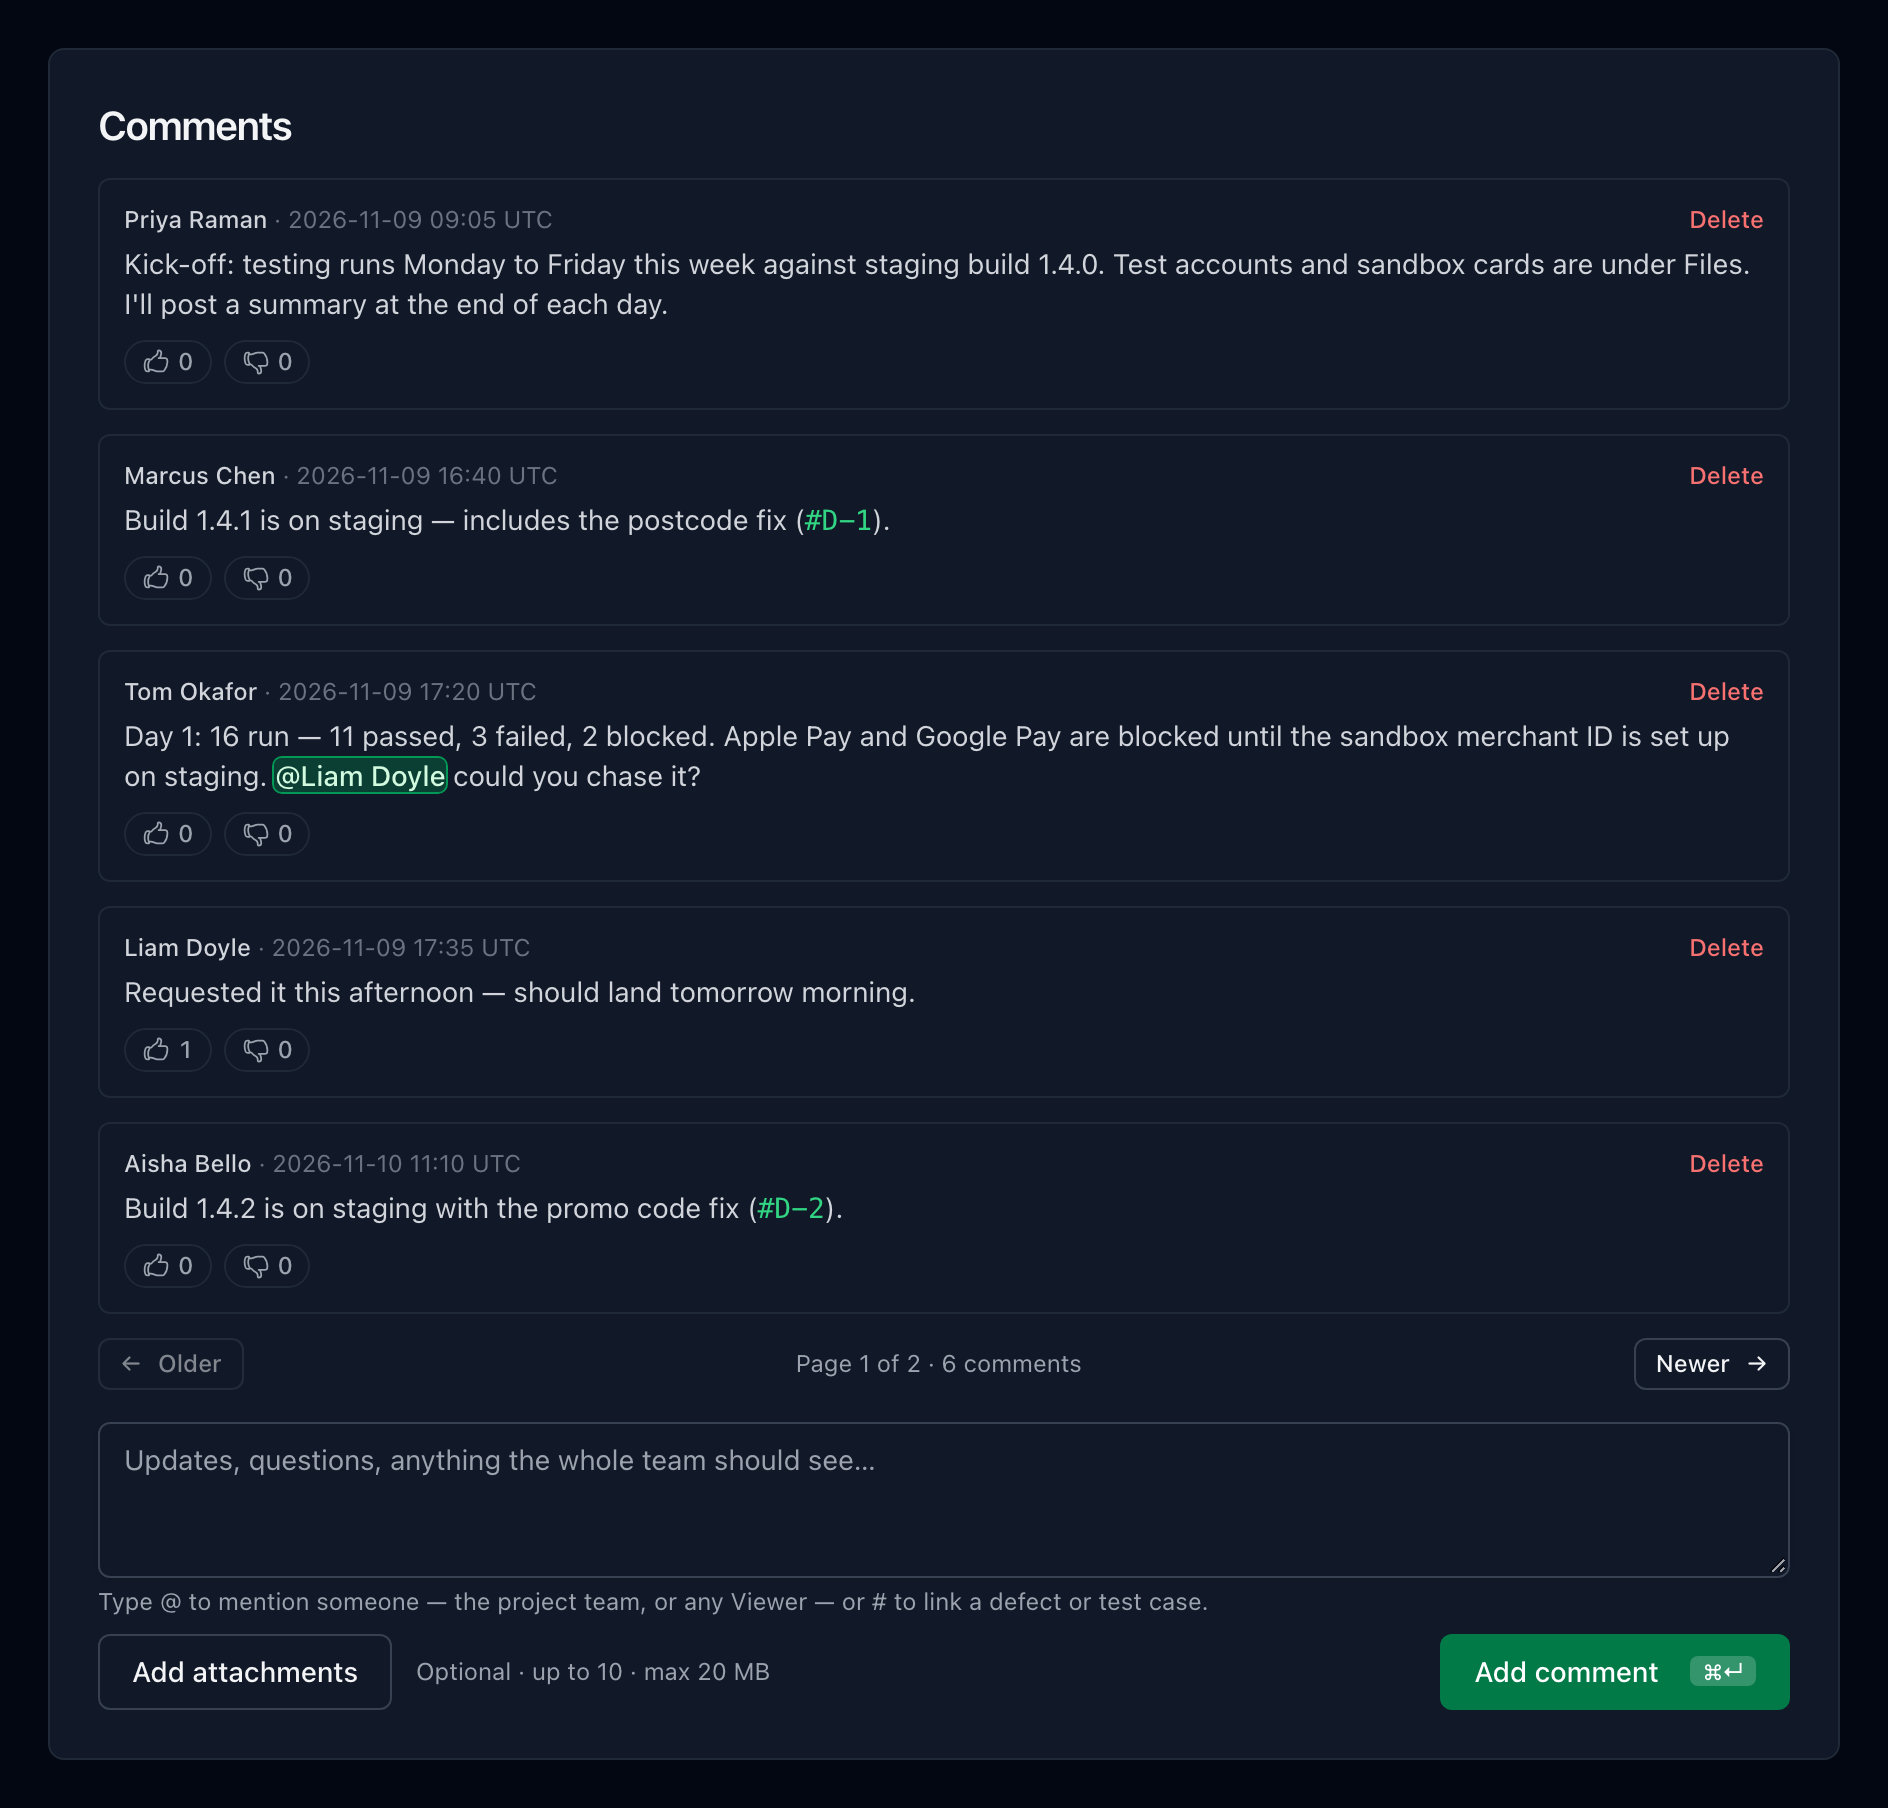
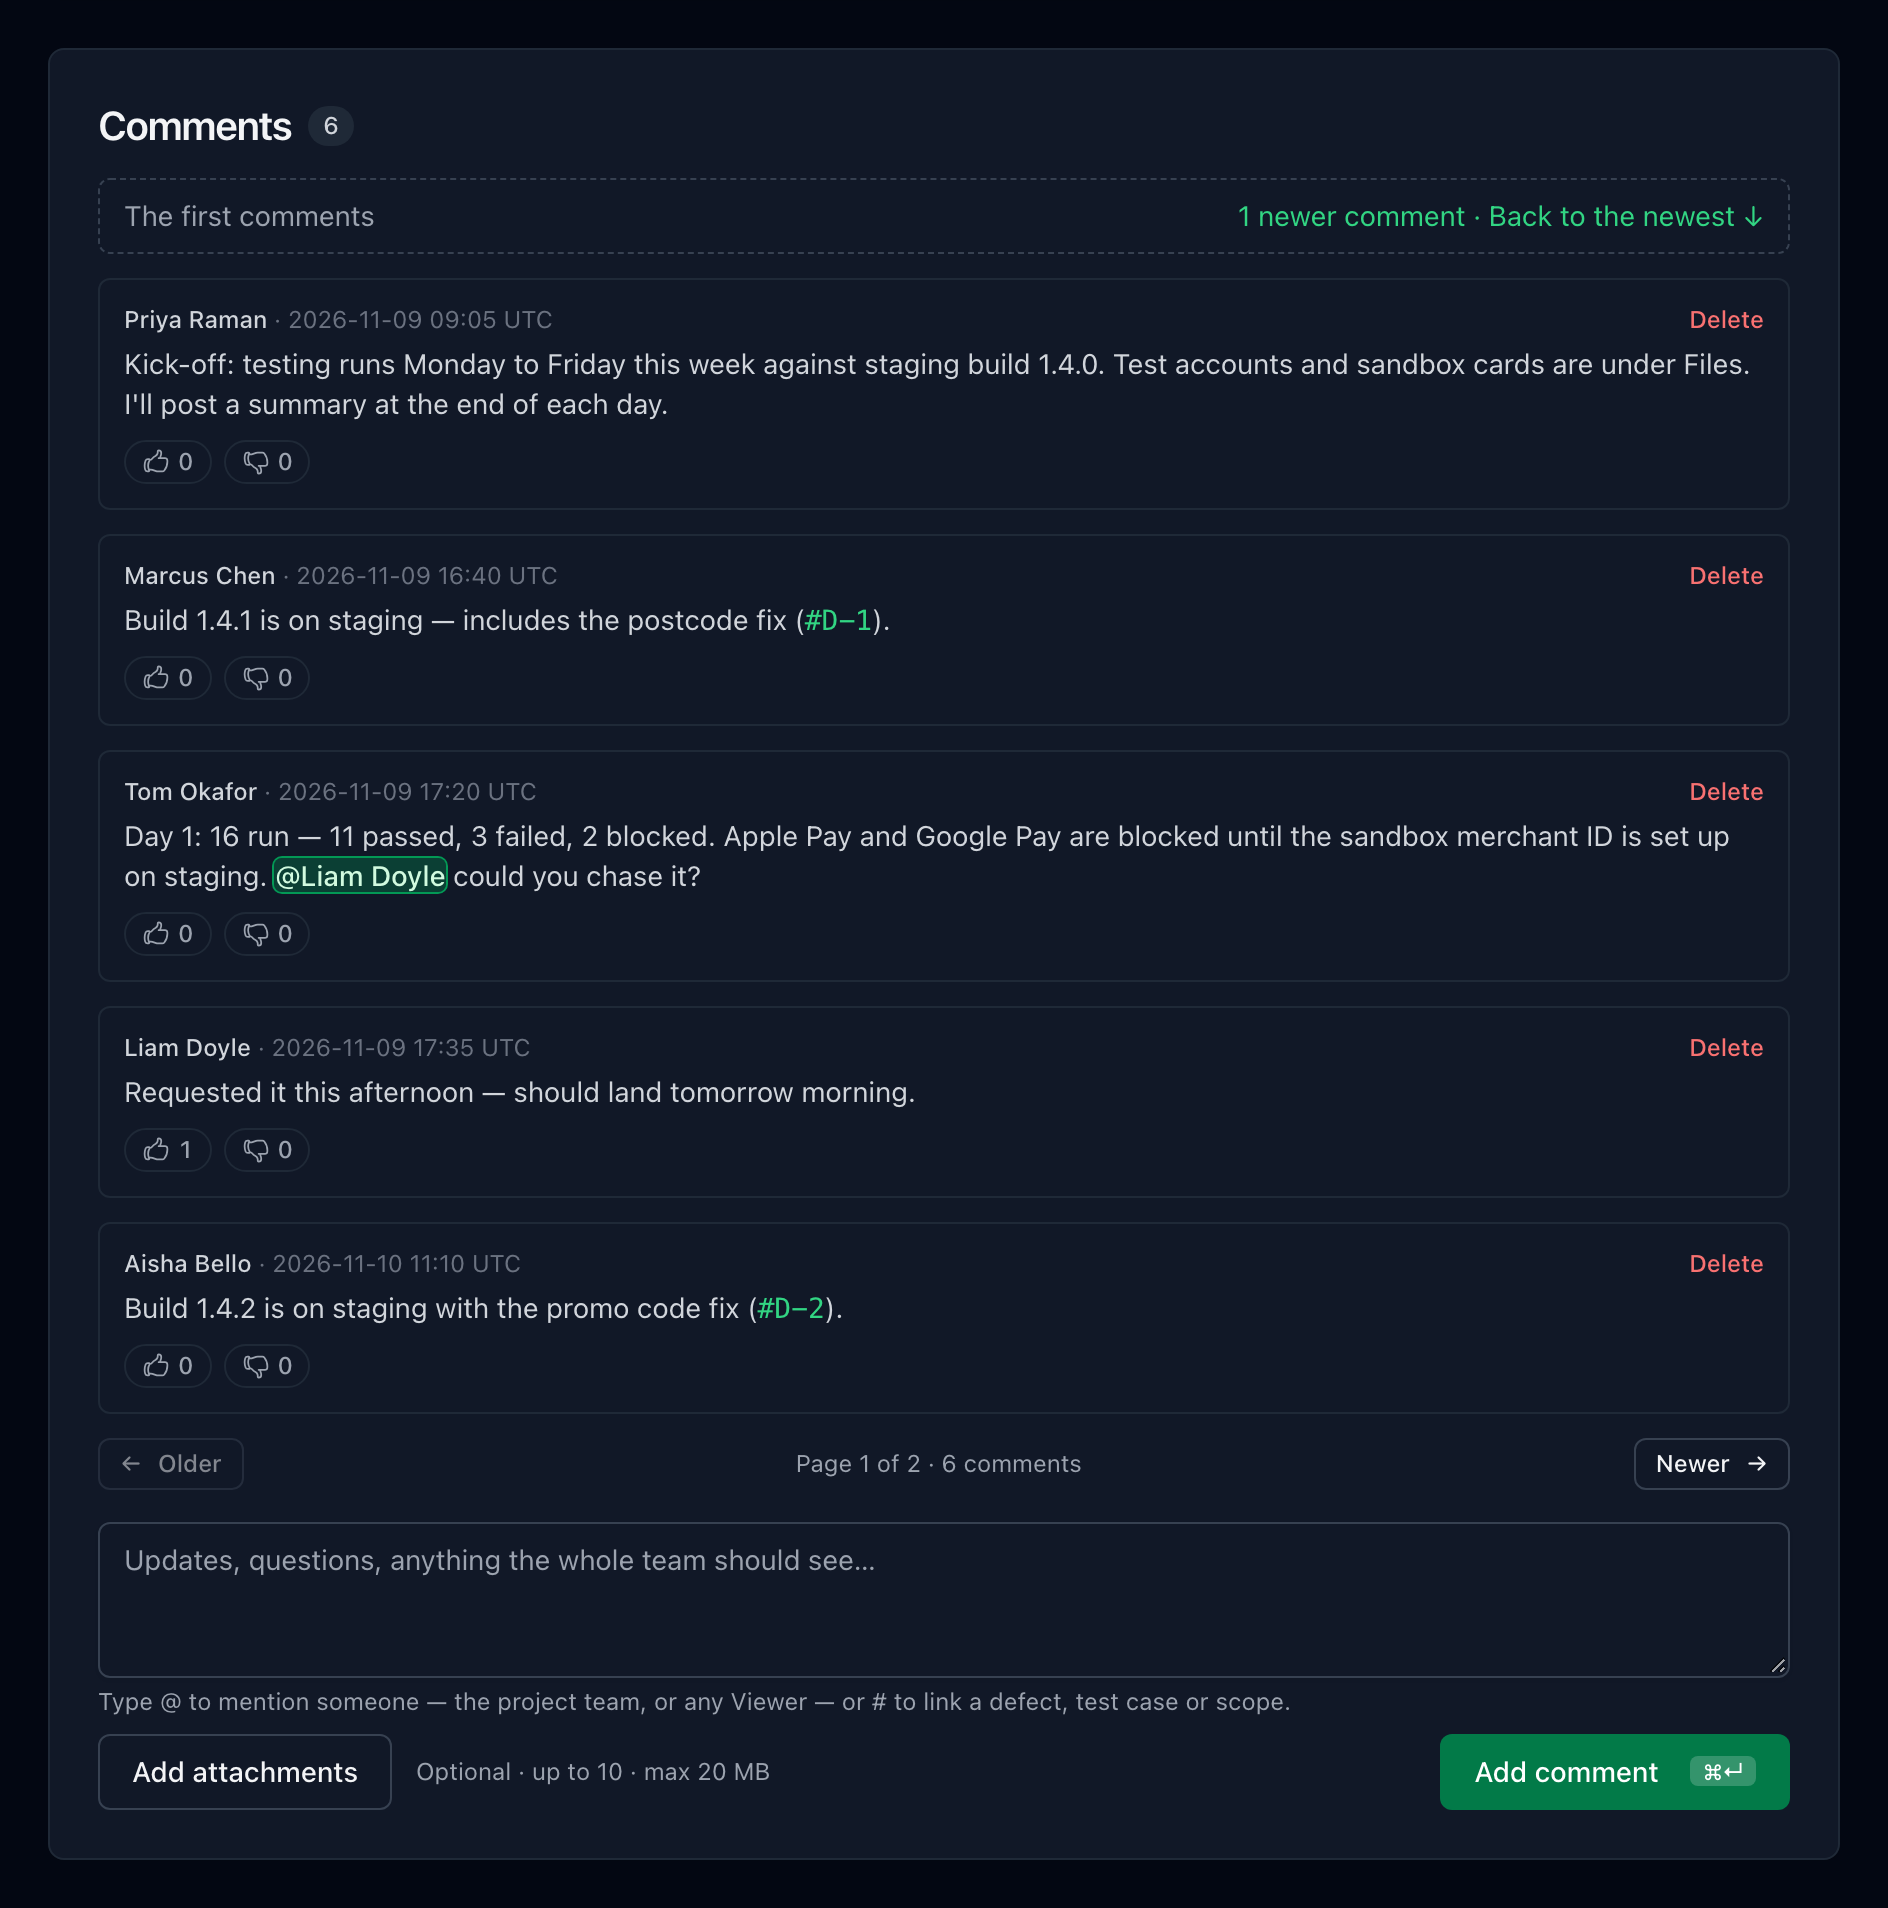
comment enhancements; emphasis on older/newer comments on comments heading; making paginated comments more obvious

diff --git a/tests/QaTracker.E2ETests/CommentPagingTests.cs b/tests/QaTracker.E2ETests/CommentPagingTests.cs
@@ -1,0 +1,51 @@
+using Microsoft.Playwright;
+
+namespace QaTracker.E2ETests;
+
+/// <summary>Long comment threads: five per page, newest first, with the total and the older comments
+/// signposted above the thread (CommentPagesBanner) as well as the pager below it.</summary>
+[TestFixture]
+public class CommentPagingTests : E2ETestBase
+{
+    private ILocator Items => Page.Locator("#comments ul > li");
+
+    [Test]
+    public async Task A_long_thread_shows_its_total_and_points_to_the_older_comments()
+    {
+        var dashboardUrl = await CreateProjectAsync($"E2E comment pages {Guid.NewGuid():N}");
+        await Page.GotoAsync(dashboardUrl);
+        var banner = Page.Locator("[data-comment-pages]");
+
+        for (var i = 1; i <= 7; i++)
+        {
+            var text = $"Paged comment {i:00}";
+            await Page.Locator("#new-comment").FillAsync(text);
+            await Page.GetByRole(AriaRole.Button, new() { Name = "Add comment" }).ClickAsync();
+            await Expect(Page.Locator("#comments li").Filter(new() { HasTextString = text })).ToBeVisibleAsync();
+            await Expect(Page.Locator("#new-comment")).ToHaveValueAsync("");
+            if (i == 5)
+            {
+                // One page's worth: a count, but nothing to signpost yet.
+                await Expect(Page.Locator("[data-comment-count]")).ToHaveTextAsync("5");
+                await Expect(banner).ToHaveCountAsync(0);
+            }
+        }
+
+        // Newest page: the last two, the total, and a way to the five older ones.
+        await Expect(Page.Locator("[data-comment-count]")).ToHaveTextAsync("7");
+        await Expect(Items).ToHaveCountAsync(2);
+        await Expect(banner.Locator("[data-older-comments]")).ToHaveTextAsync("↑ Show 5 older comments");
+        await Expect(banner).ToContainTextAsync("Showing the newest");
+
+        // The older page, with the way back.
+        await banner.Locator("[data-older-comments]").ClickAsync();
+        await Expect(Items).ToHaveCountAsync(5);
+        await Expect(Items.First).ToContainTextAsync("Paged comment 01");
+        await Expect(banner).ToContainTextAsync("The first comments");
+        await Expect(banner.Locator("[data-newest-comments]")).ToContainTextAsync("2 newer comments");
+
+        await banner.Locator("[data-newest-comments]").ClickAsync();
+        await Expect(Items).ToHaveCountAsync(2);
+        await Expect(Items.Last).ToContainTextAsync("Paged comment 07");
+    }
+}

diff --git a/docs/user-guide.md b/docs/user-guide.md
@@ -255,8 +255,9 @@ member or a Viewer, and they're notified. Type **#** to link a defect, test case
 from the list (search by title, or by ID like `d-3`, `s-2` or `12`), or type its ID, such as `#D-3`,
 `#T-12` or `#S-2`.
 Once the comment is posted these become links to the item. Give a comment a thumbs up or down, and hover over the count
-to see who reacted. Long threads are split into pages of five, starting with the newest,
-and **Ctrl+Enter** (**⌘+Enter** on a Mac) posts.
+to see who reacted. Long threads are split into pages of five, starting with the newest. The
+total shows beside **Comments**, and **Show N older comments** above the thread takes you back
+through them. **Ctrl+Enter** (**⌘+Enter** on a Mac) posts.
 
 ![Project comments: daily summaries, an @mention of Liam, and his reply with a thumbs up](screenshots/comments.png)
 

diff --git a/docs/features.md b/docs/features.md
@@ -132,8 +132,9 @@ screenshots, see the [user guide](user-guide.md).
   and status (or, for a scope, its type and size) on hover.
 - **Reactions:** thumbs up or down, with counts and who reacted on hover. The comment's
   author is notified.
-- Files on comments, threads paged five at a time (newest first), **Ctrl+Enter** /
-  **⌘+Enter** to post, and a confirmation before deleting.
+- Files on comments, threads paged five at a time (newest first) with the total beside the
+  heading and a "Show N older comments" link above the thread, **Ctrl+Enter** / **⌘+Enter** to
+  post, and a confirmation before deleting.
 
 ## Attachments
 
